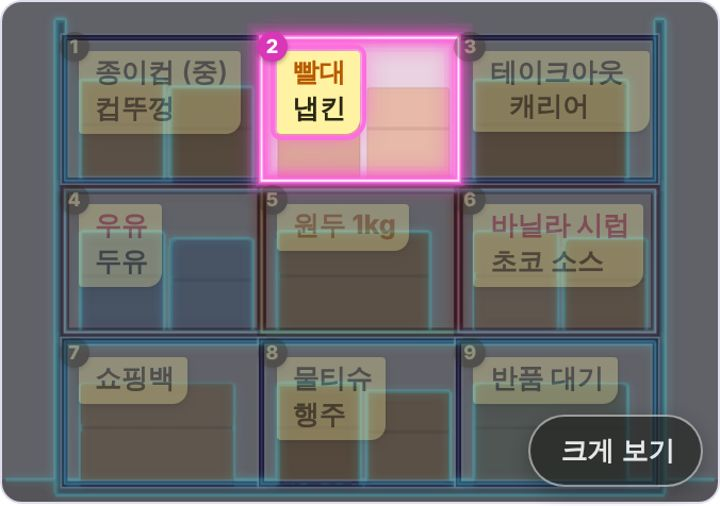
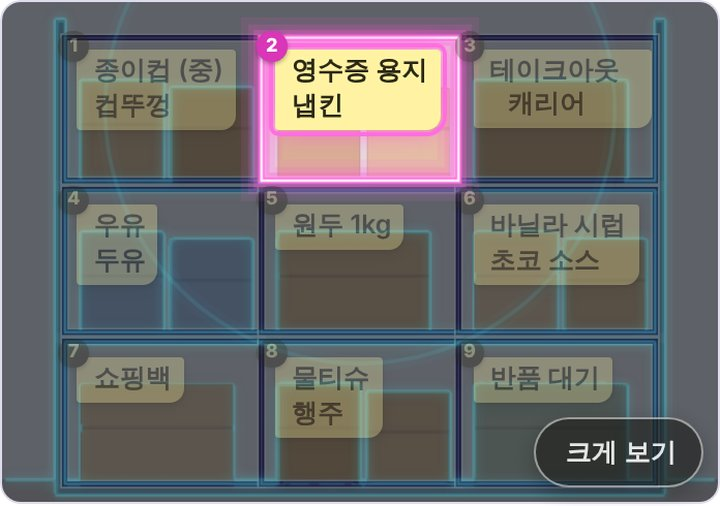
검색 안내를 '찾을 물건 (예: 영수증 용지, ㅇㅅㅈ)'로, 랜딩은 업종 안 가리는 판에 장면 문구·포스트잇·검색 사진만 맞춤
Claude-Session: https://claude.ai/code/session_01GSizRSRuX8ML7roxLkBkh4

diff --git a/index.html b/index.html
@@ -1731,7 +1731,7 @@
     <div style="background: var(--bg); border: 1px solid var(--border); padding: 16px; border-radius: 8px; margin-bottom: 16px;">
         <ol class="guide-steps">
             <li><i class="ti ti-camera"></i><div><b>사진 올리고 구역 만들기</b><span>사진 가운데 <b>[AI로 구역 찾기]</b>를 누르거나, <b>[직접 그리기]</b>로 사진 위를 끌어 구역을 만들어요. 나중에 고치려면 오른쪽 아래 <b>[구역 고치기]</b>.</span><small>AI로 찾을 때 사진만 외부 AI 서버로 보내져요.</small></div></li>
-            <li><i class="ti ti-search"></i><div><b>물건 찾기</b><span>위쪽 검색창에 이름이나 초성(ㅅㄹ)을 치거나, <b>마이크</b>를 눌러 말로 찾아요. 찾은 뒤 아래에 뜨는 <b>[네, 여기 있어요]</b>를 누르면 그 구역에 확인한 날짜가 남고, 30일 넘게 확인 안 한 구역은 따로 표시돼요. 물건을 넣을 땐 물건 관리 창의 마이크로 "빨대, 냅킨, 원두"처럼 여러 개를 한 번에 말해 추가할 수 있어요.</span></div></li>
+            <li><i class="ti ti-search"></i><div><b>물건 찾기</b><span>위쪽 검색창에 이름이나 앞 글자(ㅇㅅㅈ)를 치거나, <b>마이크</b>를 눌러 말로 찾아요. 찾은 뒤 아래에 뜨는 <b>[네, 여기 있어요]</b>를 누르면 그 구역에 확인한 날짜가 남고, 30일 넘게 확인 안 한 구역은 따로 표시돼요. 물건을 넣을 땐 물건 관리 창의 마이크로 "빨대, 냅킨, 원두"처럼 여러 개를 한 번에 말해 추가할 수 있어요.</span></div></li>
             <li><i class="ti ti-zoom-in"></i><div><b>작은 칸은 크게 보기</b><span>사진 위에서 <b>두 손가락을 벌리면</b> 사진이 크게 열려요. 사진 위 <b>[+]</b>, <b>[크게 보기]</b> 버튼으로도 키울 수 있어요.</span></div></li>
             <li><i class="ti ti-printer"></i><div><b>벽에 붙이기</b><span>아래 인쇄 버튼으로 A4를 뽑아 선반 옆에 붙여 두면, 폰 없이도 꺼낼 때·다시 넣을 때 자리를 찾아요.</span></div></li>
         </ol>
@@ -1899,7 +1899,7 @@
     <div class="hero-beta"><span class="beta-pill"><i class="ti ti-flask"></i> 무료 베타</span></div>
     <div class="hero-summary" id="heroSummary"></div>
     <div class="search-input-wrap">
-        <input type="text" id="searchBox" placeholder="이름·초성·말로 찾기" oninput="integratedSearch(false)" onfocus="this.select()">
+        <input type="text" id="searchBox" placeholder="찾을 물건 (예: 영수증 용지, ㅇㅅㅈ)" oninput="integratedSearch(false)" onfocus="this.select()">
         <span class="voice-bars" aria-hidden="true"><span></span><span></span><span></span></span>
         <i class="ti ti-search"></i>
         <button id="micBtn" class="icon-btn" onclick="startVoiceRecognition()" title="말로 검색" aria-label="말로 검색">
@@ -5122,7 +5122,7 @@
     }
     // ⚙ 설정 맨 아래: 버전 + 내 데이터 요약 (백업이 필요한 양인지, 폰 저장 공간을 얼마나 쓰는지)
     // 버전은 배포할 때 올린다 (YYYY.MM.DD, 같은 날 여러 번이면 뒤에 .2)
-    const APP_VERSION = '베타 2026.10.21.5';
+    const APP_VERSION = '베타 2026.10.22.1';
     async function syncSettingsFooter() {
         const el = document.getElementById('settingsFooter'); if (!el) return;
         const photos = imageList.filter(d => d.id !== 'dummy_root'), zones = photos.reduce((n, d) => n + d.zones.length, 0), items = photos.reduce((n, d) => n + d.zones.reduce((m, z) => m + z.items.length, 0), 0);
@@ -5546,7 +5546,7 @@
         if (pinned.length) html += `<div class="hero-quick-row"><span class="hero-quick-label">즐찾</span>${pinned.map(n => `<button type="button" class="hero-chip" data-q="${escapeHtml(n)}" onclick="applySearchSuggestion(this)">★ ${escapeHtml(n)}</button>`).join('')}</div>`; // 신입용 고정 물건 (사장님이 정해 둔 것)
         if (history.length) html += `<div class="hero-quick-row"><span class="hero-quick-label">최근</span>${history.map(h => chip(h)).join('')}</div>`;
         if (frequent.length) html += `<div class="hero-quick-row"><span class="hero-quick-label">자주</span>${frequent.map(([n, c]) => chip(n, ` <small>${c}회</small>`)).join('')}</div>`;
-        quick.innerHTML = html || '<p class="hero-quick-tip">물건 이름, 초성(ㅅㄹ), 말로도 찾을 수 있어요</p>';
+        quick.innerHTML = html || '<p class="hero-quick-tip">앞 글자만 쳐도 돼요 (ㅇㅅㅈ → 영수증 용지) · 🎤 눌러 말로도</p>';
     }
 
     // 창고 브리핑 카드: 구역·물건·이번 주 찾음·부족 + 마지막 재고 확인. 숫자는 바뀌었을 때(처음 포함) 0부터 올라간다
@@ -5590,7 +5590,7 @@
     function activateHeroSearch(focused = false) {
         renderHeroHome();
         if (focused && !document.body.classList.contains('hero-search-focused')) heroFocusedAt = performance.now();
-        document.body.classList.add('hero-search-active');
+        document.body.classList.add('hero-search-active'); syncSearchHint();
         // 한 번 위로 올라가면 닫힐 때까지 위에 둔다 (키보드를 내려도 유지 — 목록을 누르는 도중 카드가 움직이면 탭이 빗나감)
         if (focused) document.body.classList.add('hero-search-focused');
         fitHeroDropdown();
@@ -5619,8 +5619,13 @@
         if (document.getElementById('searchBox').value.trim()) return; // 검색 중이면 검색 쪽 Esc가 먼저
         deactivateHeroSearch();
     });
+    // 검색창 안내: 홈 화면(넓은 칸)엔 다 적고, 위쪽 좁은 칸(폰)엔 예시만 — 다 적으면 끝이 잘렸다
+    function syncSearchHint() {
+        const box = document.getElementById('searchBox'); if (!box) return;
+        box.placeholder = document.body.classList.contains('hero-search-active') || window.innerWidth > 600 ? '찾을 물건 (예: 영수증 용지, ㅇㅅㅈ)' : '예: 영수증 용지, ㅇㅅㅈ';
+    }
     function deactivateHeroSearch() {
-        document.body.classList.remove('hero-search-active', 'hero-search-focused');
+        document.body.classList.remove('hero-search-active', 'hero-search-focused'); syncSearchHint();
         // 검색 카드를 내리면 결과 창도 같이 닫는다 ([창고 지도 보기]는 검색 카드 안 버튼이라 바깥 누르기로 닫히지 않아 결과 창이 남았다)
         const display = document.getElementById('searchResultDisplay'); if (display) display.style.display = 'none';
         const box = document.getElementById('searchBox'); if (box && document.activeElement === box) box.blur();

diff --git a/start/index.html b/start/index.html
@@ -152,7 +152,7 @@
     <div class="hero-grid">
       <div>
         <h1><em>“사장님, 영수증 용지 여분 어딨어요?”</em><br>오늘도 전화로 물어봐요</h1>
-        <p class="scene">점심 피크 10분 전, 또 그 질문. 선반 사진 한 장을 물건 지도로 바꿔 두면 직원이 혼자 찾아요.</p>
+        <p class="scene">프린터는 멈췄고, 사장님은 자리에 없고. 선반 사진 한 장을 물건 지도로 바꿔 두면 직원이 혼자 찾아요.</p>
         <div class="cta">
           <a class="btn btn-main" href="go/app-top/">지금 무료로 써 보기</a>
           <a class="btn btn-sub" href="go/form-top/">무료 방문 세팅 신청 <small>다산·구리 · 선착순 10팀 · 10/31 마감</small></a>
@@ -179,7 +179,7 @@
   <div class="wrap">
     <h2>직원들이 묻는 말은 늘 같아요</h2>
     <div class="notes">
-      <div class="note">사장님, 영수증 용지 여분 어딨어요?<small>새 직원 첫 주에 몇 번이고</small></div>
+      <div class="note">사장님, 영수증 용지 여분 어딨어요?<small>한 달에 한 번 바꾸는데 매번 못 찾아요</small></div>
       <div class="note">포장 봉투 다 떨어졌어요!<small>꼭 사장님 안 계실 때</small></div>
       <div class="note">이거 유통기한 지났는데요…<small>정리하다 뒤에서 나와요</small></div>
     </div>
@@ -221,7 +221,7 @@
       <div>
         <span class="k">새 직원</span>
         <h3>“이거 어딨어요?”가 줄어요</h3>
-        <p>검색 한 번이면 사진에서 그 칸이 빛나요. 초성(ㅂㅅㅌㅇㅍ)이나 말로도 찾고, "휴지"로 찾아도 냅킨이 나와요.</p>
+        <p>검색 한 번이면 사진에서 그 칸이 빛나요. 앞 글자(ㅇㅅㅈ)나 말로도 찾고, "휴지"로 찾아도 냅킨이 나와요.</p>
         <div class="row"><a class="try" href="go/app-staff/">검색 기능 먼저 써 보기</a><a class="ask" href="go/form-staff/">세팅 신청</a></div>
       </div>
     </article>
